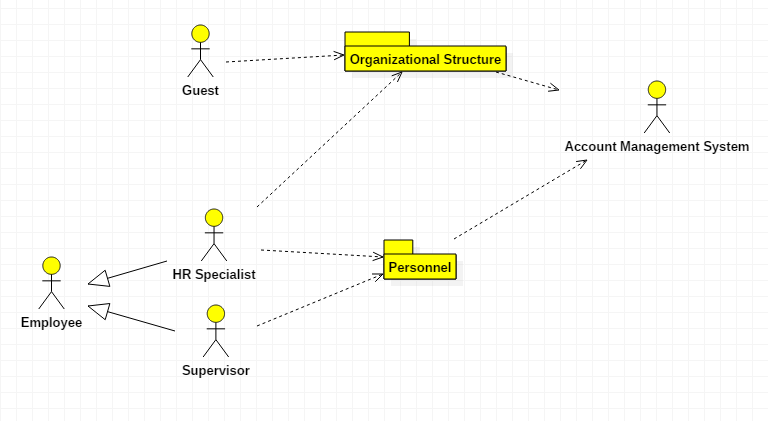
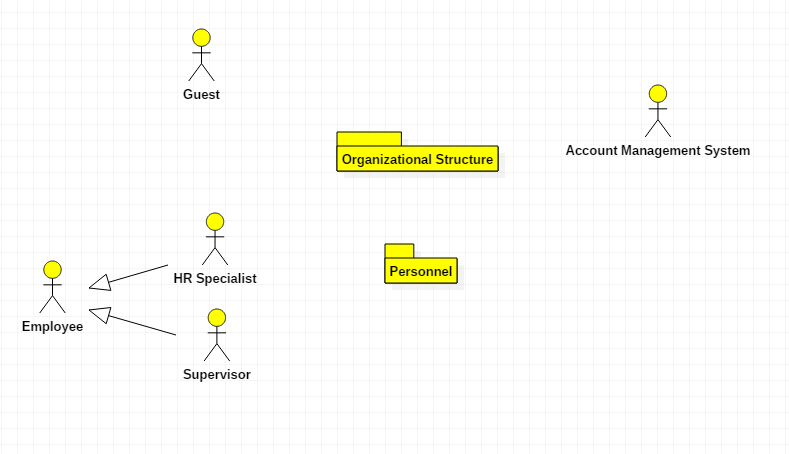
Updated the use case Diagram and improved the references

diff --git a/NFR.html b/NFR.html
@@ -8,10 +8,10 @@
 <body>
 <h1><center>Non Functional Requirements</center> </h1>
 <h2>Performance requirements  </h2>
-<p>1) The number of the online user of the HRMS can be estimated as 50 at  most.  </p>
-<p>2) There is no restriction on the number of the users to be added to the  database.   </p>
+<p>1) The number of  online users of the HRMS can be estimated as 50 at  most. <a href="https://senior.ceng.metu.edu.tr/2012/innovasoft/files/SRS-innovasoft_1.pdf">[1]</a> </p>
+<p>2) There is no restriction on the number of the users to be added to the  database. <a href="https://senior.ceng.metu.edu.tr/2012/innovasoft/files/SRS-innovasoft_1.pdf">[1]   </a></p>
 <h2>  Hardware Requirements  </h2>
-<p>1)  The HRMS application will be storing  employees&rsquo; personal data of roughly 200 employees. Roughly 2 GB of  storage capacity is needed.  </p>
+<p>1)  The HRMS application will be storing  employees&rsquo; personal data of roughly 1000 employees. Roughly 2 GB of  storage capacity is needed.  </p>
 <h2> Software Requirements </h2>
 <p>1)   Internet connection must be  established since HRMS application will be a web-based application,.  </p>
 <p>2)  The HRMS software will be used on PCs and will function via internet or interanet in any  web browser.  </p>
@@ -20,9 +20,9 @@
 <p>5) The HRMS software will support JDK environment.  The HRMS will run on any platform supporting JDK technology.  </p>
 <p>6)  Application will run on 256MB or higher of RAM.  </p>
 <h2> Development Environment Requirments  </h2>
-<p> 1) Eclipse IDE will be used for developing the HRMS web-based interface and its relation to  person database module.  Eclipse IDE  Eclipse is a multi-language software development environment comprising an integrated  development environment(IDE) and an extensible plug-in system. It is written mostly in Java  and can be used to develop applications in Java and, by means of various plug-ins, other  programming languages including Ada, C, C++, COBOL, Perl, PHP, Python, R,  Ruby(including on Rails framework), Scala, Clojure, Groovy, and Scheme. It can be used to  develop packages for the software Mathematica. The IDE is often called Eclipse JDT for  Java programming language, Eclipse ADT (Ada Development Toolkit) for Ada, Eclipse  CDT for C/C++, and Eclipse PDT for PHP.[4]  Eclipse is an open source community, whose projects are focused on building an open  development platform comprised of extensible frameworks, tools and runtimes for building,  deploying and managing software across the lifecycle. The Eclipse community is a not-for-profit,  corporation who are members of the Eclipse community hosts the Eclipse projects  and helps develop an open source community and an world of complementary products and  services.[5]  </p>
+<p> 1) Eclipse IDE will be used for developing the HRMS web-based interface and its relation to  person database module.  Eclipse IDE  Eclipse is a multi-language software development environment comprising an integrated  development environment(IDE) and an extensible plug-in system. It is written mostly in Java  and can be used to develop applications in Java and, by means of various plug-ins, other  programming languages including Ada, C, C++, COBOL, Perl, PHP, Python, R,  Ruby(including on Rails framework), Scala, Clojure, Groovy, and Scheme. It can be used to  develop packages for the software Mathematica. The IDE is often called Eclipse JDT for  Java programming language, Eclipse ADT (Ada Development Toolkit) for Ada, Eclipse  CDT for C/C++, and Eclipse PDT for PHP.[4]  Eclipse is an open source community, whose projects are focused on building an open  development platform comprised of extensible frameworks, tools and runtimes for building,  deploying and managing software across the lifecycle. The Eclipse community is a not-for-profit,  corporation who are members of the Eclipse community hosts the Eclipse projects  and helps develop an open source community and an world of complementary products and  services.<a href="https://www.eclipse.org/org/">[5]</a> </p>
 <p>2)  MySql Administrator or Microsoft SQL Server will be used to create, manage, and optimize  the person database module. MySql Administrator  MySQL is a relational database management system(RDBMS)[6] that runs as a server  providing multi-user access to a number of databases. The SQL phrase stands for Structured  Query Language.[7]  The MySQL development platform has made its source code available under the terms of  use of the GNU General Public License.  Open source free-software projects use MySQL if it is required a full-featured database  management system. Several paid editions are available for commercial use, and offer  additional functionality. MySQL is also used in may high-profile, large-scale World Wide  Web products, includeing Wikipedia, Goolge, Facebook, and Twitter.  </p>
-<p>3)  Microsoft SQL Server is a relational database server, developed by Microsoft; it is a  software product whose primary function is to store and retrieve data as requested by other  software applications, be it those on the same computer or those running on another  computer across a network (including the Internet). There are at least a dozen different  editions of Microsoft SQL Server aimed at different audiences and for different workloads  (ranging from small applications that store and retrieve data on the same computer, to  millions of users and computers that access huge amounts of data from the Internet at the  same time).[8] </p>
+<p>3)  Microsoft SQL Server is a relational database server, developed by Microsoft; it is a  software product whose primary function is to store and retrieve data as requested by other  software applications, be it those on the same computer or those running on another  computer across a network (including the Internet). There are at least a dozen different  editions of Microsoft SQL Server aimed at different audiences and for different workloads  (ranging from small applications that store and retrieve data on the same computer, to  millions of users and computers that access huge amounts of data from the Internet at the  same time). <a href="https://www.microsoft.com/en-US/sql-server/sql-server-2017">[8] </a></p>
 </body>
 
 </html>

diff --git a/References.html b/References.html
@@ -8,13 +8,13 @@
 <body>
 <h1><center>References</center></h1>
 
-<p>[1] https://senior.ceng.metu.edu.tr/2012/innovasoft/files/SRS-innovasoft_1.pdf</p>
-<p>[2] http://smallbusiness.chron.com/seven-major-categories-hr-management-activities-37354.html</p>
-<p>[3] https://courses.lumenlearning.com/boundless-business/chapter/the-functions-and-goals-of-hr/</p>
-<p>[4] http://en.wikipedia.org/wiki/Eclipse_(software)  </p>
-<p>[5] http://www.eclipse.org/org/  </p>
+<p>[1] <a href="https://senior.ceng.metu.edu.tr/2012/innovasoft/files/SRS-innovasoft_1.pdf">Cansu Hekim, Bekir Do&#287;ru, Zaman Safari, Hamid Siddiqi, &quot;Human Resource Management  System, Software Requirements  Specification&quot;, Sponsored by Siemens Enterprise Communication Prepared by  InnovaSoft (2011) </a></p>
+<p>[2] <a href="http://smallbusiness.chron.com/seven-major-categories-hr-management-activities-37354.html">Rick Suttle, &quot;Major Categories of HR Management Activities&quot;, http://smallbusiness.chron.com/seven-major-categories-hr-management-activities-37354.html</a></p>
+<p>[3] <a href="https://courses.lumenlearning.com/boundless-business/chapter/the-functions-and-goals-of-hr/">Lumen, &quot;The Functions and Goals of HR&quot;, https://courses.lumenlearning.com/boundless-business/chapter/the-functions-and-goals-of-hr/</a></p>
+<p>[4] <a href="https://en.wikipedia.org/wiki/Eclipse_(software)">Eclipse</a> </p>
+<p>[5] <a href="https://www.eclipse.org/org/">About Eclipse Foundation </a></p>
 <p>[6] Robin Schumacher, Arjen Lentz. &quot;Dispelling the Myths&quot;. MySQL AB. Retrieved 2007-02-10.  </p>
 <p>[7] &quot;What is MySQL, MySQL 5.1 Reference Manual&quot;. MySQL AB. Retrieved 2011-08-26.</p>
-<p>[8] http://www.microsoft.com/sqlserver/en/us/default.aspx</p>
+<p>[8] <a href="http://www.microsoft.com/sqlserver/en/us/default.aspx">Microsoft SQL Server </a></p>
 </body>
 </html>

diff --git a/UseCase.html b/UseCase.html
@@ -19,7 +19,7 @@
 <p>&nbsp;</p>
 <center><input name="Personnel" type="image" src="Images/Personnel.PNG" /></center>
 <h2>&nbsp;</h2>
-<h2>Structure Use Case Diagram</h2>
+<h2>Organization Structure Use Case Diagram</h2>
 <p>&nbsp;</p>
 <center><input name="Structure" type="image" src="Images/Structure.PNG" /></center>
 </body>
